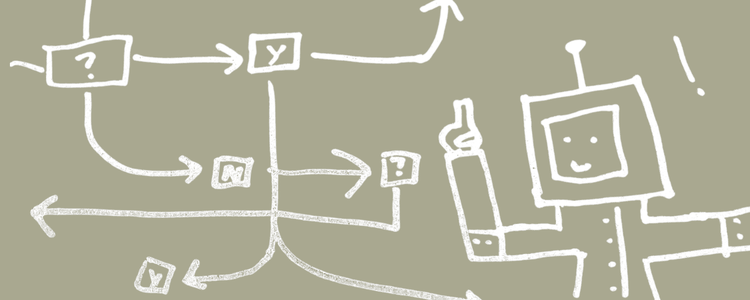
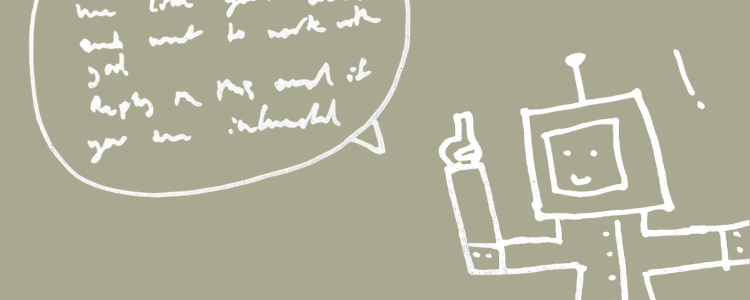
new pics

diff --git a/index.html b/index.html
@@ -73,16 +73,14 @@
         <h2 class="group-title">Marketing</h2>
         <div class="grid">
         <!-- Card pictures are the files images/card-*.png (750 x 300). To swap one, replace the file or change the img src in its .thumb div. -->
-        <!-- Card pictures are the files images/card-*.png (750 x 300). To swap one, replace the file or change the img src in its .thumb div. -->
         <article class="card">
           <div class="thumb" style="background:#284b35"><img src="images/card-email-sms-campaigns.png" width="750" height="300" alt="" loading="lazy" decoding="async"></div>
           <h3>Email &amp; SMS campaigns</h3>
           <p>Campaigns that average $14,338 a month in revenue.</p>
           <a class="more" href="/email-sms-campaigns.html" aria-label="Learn more about Email &amp; SMS campaigns">Learn more →</a>
         </article>
-        <!-- TODO: add the drawing as images/card-email-sms-flows.png (750 x 300) inside the .thumb div: <img src="images/card-email-sms-flows.png" width="750" height="300" alt="" loading="lazy" decoding="async">. Then add a Learn more link to /email-sms-flows.html once that page exists. -->
         <article class="card">
-          <div class="thumb" style="background:#2c4a37"></div>
+          <div class="thumb" style="background:#8a9a7b"><img src="images/card-email-sms-flows.png" width="750" height="300" alt="" loading="lazy" decoding="async"></div>
           <h3>Email &amp; SMS flows</h3>
           <p>Rebuilt automated journey flows from $4K to an average of $37K monthly.</p>
           <span class="soon">Coming soon</span>
@@ -93,9 +91,8 @@
           <p>An automated system that finds creators and runs partnership outreach.</p>
           <a class="more" href="/automation-bot.html" aria-label="Learn more about Automation bot">Learn more →</a>
         </article>
-        <!-- TODO: add the drawing as images/card-product-copy.png (750 x 300) inside the .thumb div: <img src="images/card-product-copy.png" width="750" height="300" alt="" loading="lazy" decoding="async">. Then add a Learn more link to /product-copy.html once that page exists. -->
         <article class="card">
-          <div class="thumb" style="background:#8a9a7b"></div>
+          <div class="thumb" style="background:#8a9a7b"><img src="images/card-product-copy.png" width="750" height="300" alt="" loading="lazy" decoding="async"></div>
           <h3>Product &amp; ad copy</h3>
           <p>[Add a short line.]</p>
           <span class="soon">Coming soon</span>
@@ -106,11 +103,11 @@
           <p>Blog design, build, and content for Singular Sound.</p>
           <a class="more" href="/blog.html" aria-label="Learn more about Blog design and content">Learn more →</a>
         </article>
-        <!-- TODO: add the drawing as images/card-social-media-coordination.png (750 x 300) inside the .thumb div: <img src="images/card-social-media-coordination.png" width="750" height="300" alt="" loading="lazy" decoding="async">. Then add a Learn more link to /social-media-coordination.html once that page exists. -->
+        <!-- TODO: Social media coordination = Social Media Coordinator, Talent.com (Montreal, QC), Jul 2022 – Sep 2023. Old resume bullets: LinkedIn content drove a 40% follower increase; content calendar led to 15% engagement growth across platforms; launched company TikTok and Instagram pages. Still needed: proof (screenshots), tools, then build /social-media-coordination.html and add a Learn more link. -->
         <article class="card">
-          <div class="thumb" style="background:#cfcdb8"></div>
+          <div class="thumb" style="background:#cfcdb8"><img src="images/card-social-media-coordination.png" width="750" height="300" alt="" loading="lazy" decoding="async"></div>
           <h3>Social media coordination</h3>
-          <p>[Add a short line.]</p>
+          <p>Launched TikTok and Instagram pages and grew LinkedIn followers 40%.</p>
           <span class="soon">Coming soon</span>
         </article>
         </div>
